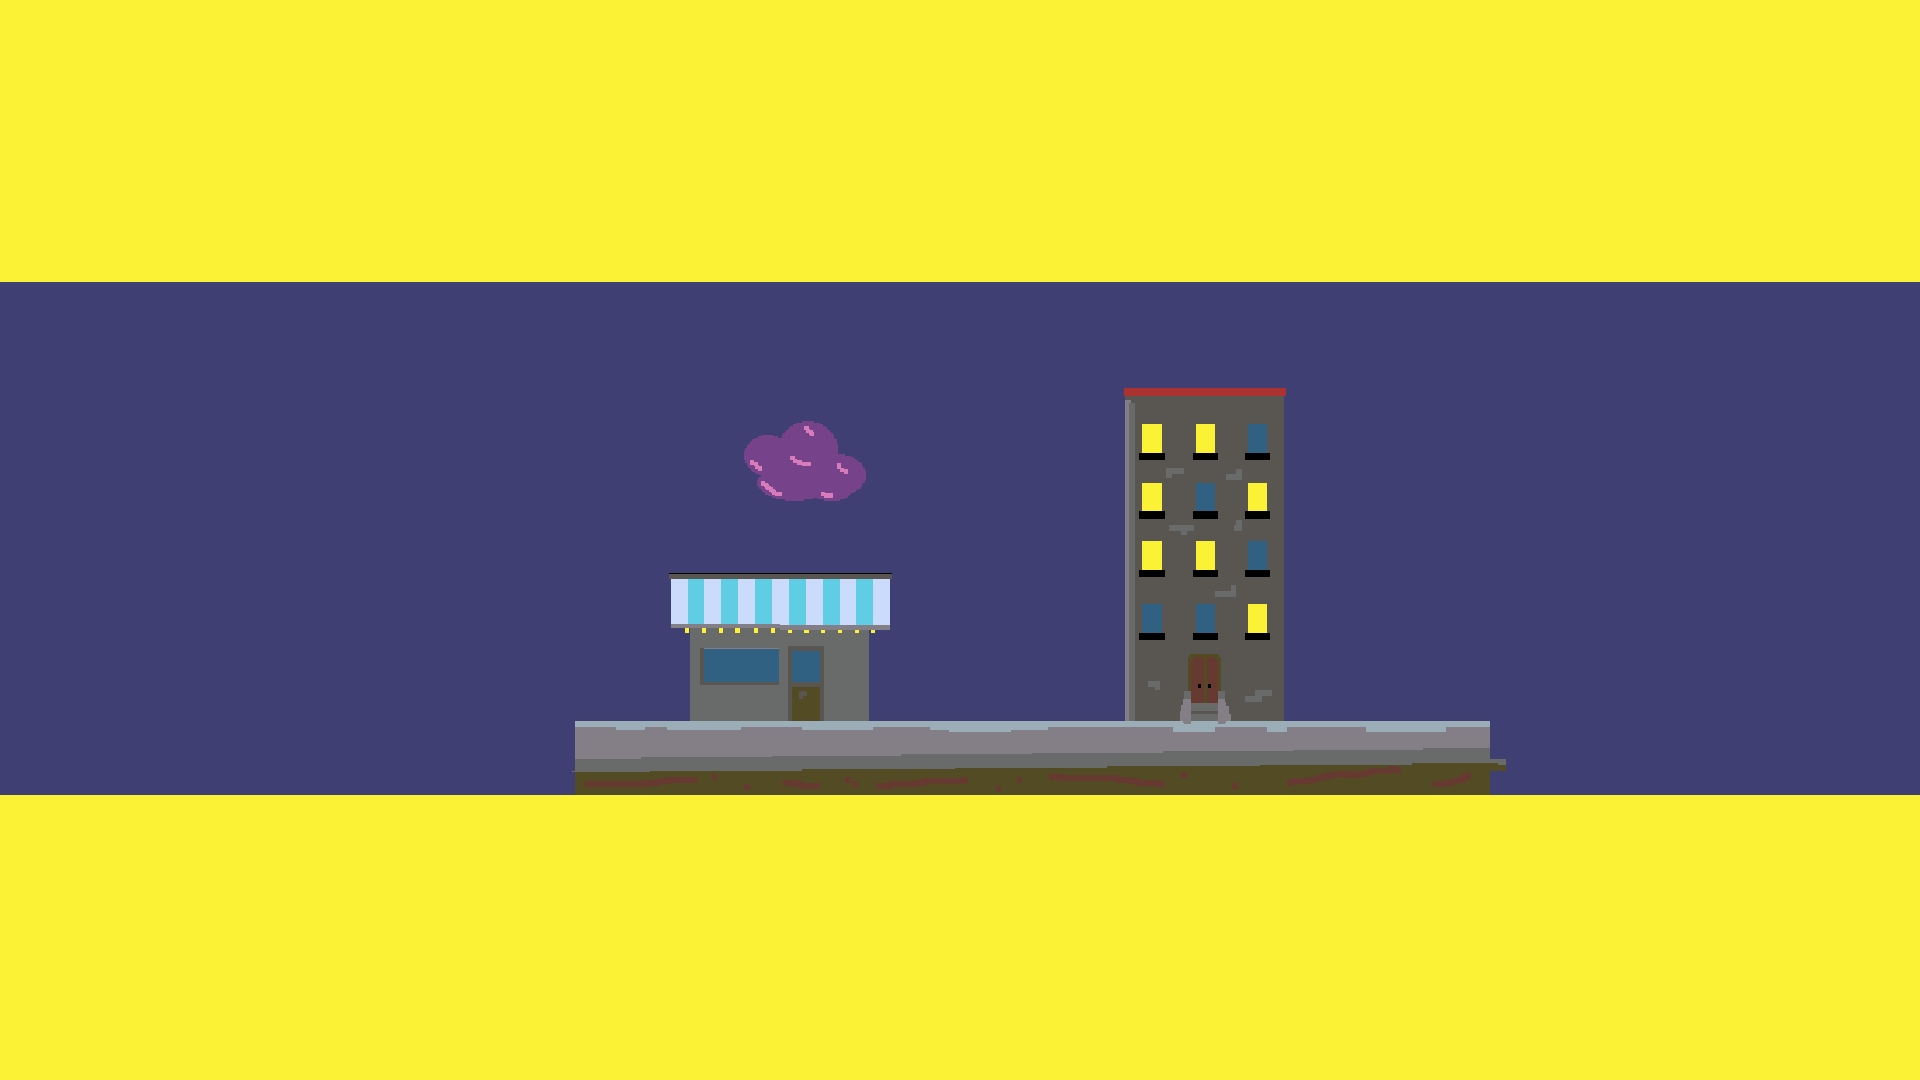
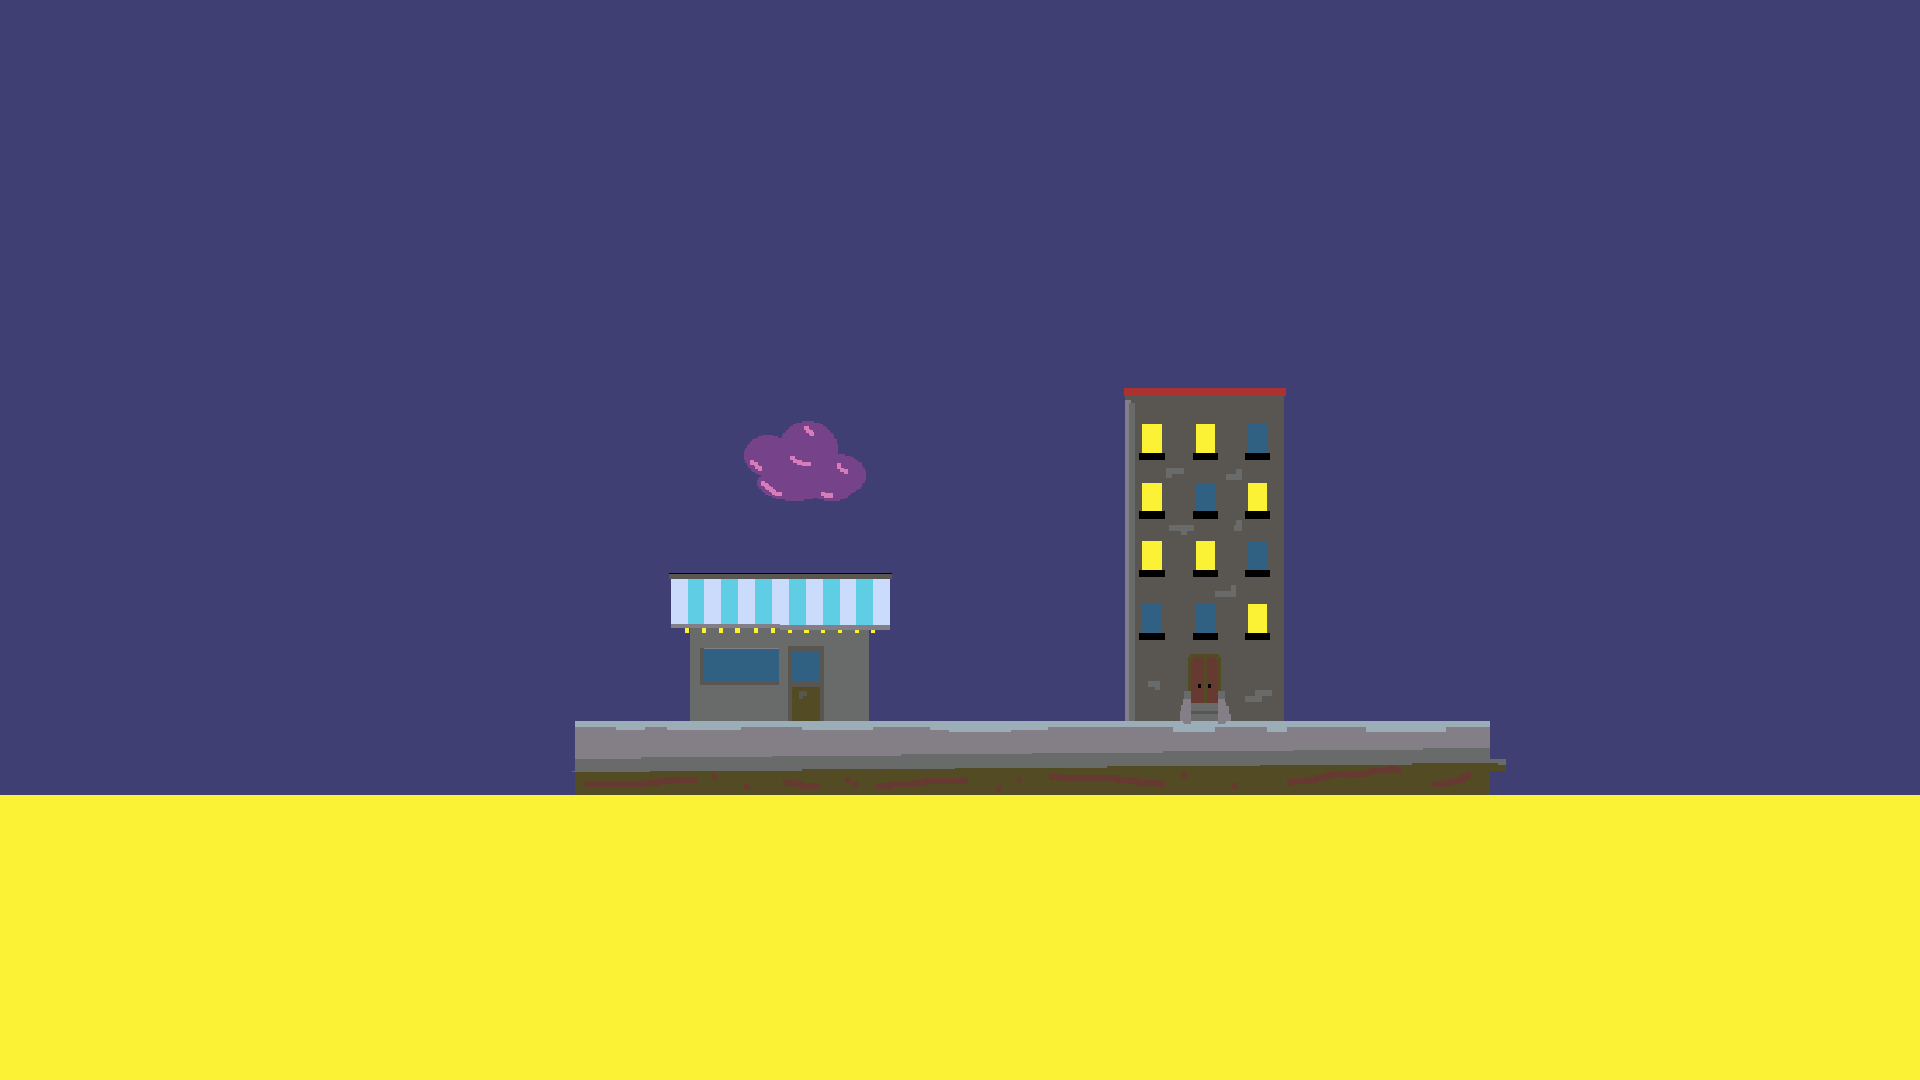
added startup background

Changed region(s): [[0.0, 0.0, 1.0, 0.275]]

diff --git a/PixelVolley/Script/Build/Script.js b/PixelVolley/Script/Build/Script.js
@@ -82,7 +82,7 @@ var Script;
         redBlob_rigid = redBlob.getComponent(ƒ.ComponentRigidbody);
         redBlob_rigid.effectRotation = new ƒ.Vector3(0, 0, 0);
         redBlob.addChild(createNewSpriteNode());
-        animationRed = await buildAnimation("Images/red_blobb.png", "redBlobb", 2, 0, 28, 32, 4, 31);
+        animationRed = await buildAnimation("Images/red_blobb.png", "redBlobb", 2, 0, 28, 31, 4, 31);
         const spriteRed = redBlob.getChildrenByName("Sprite")[0];
         spriteRed.setAnimation(animationRed);
         //char //blue

diff --git a/PixelVolley/Script/Source/Main.ts b/PixelVolley/Script/Source/Main.ts
@@ -55,7 +55,7 @@ namespace Script {
     redBlob_rigid = redBlob.getComponent(ƒ.ComponentRigidbody);
     redBlob_rigid.effectRotation = new ƒ.Vector3(0, 0, 0);
     redBlob.addChild(createNewSpriteNode());
-    animationRed = await buildAnimation("Images/red_blobb.png", "redBlobb", 2, 0, 28, 32, 4, 31);
+    animationRed = await buildAnimation("Images/red_blobb.png", "redBlobb", 2, 0, 28, 31, 4, 31);
     const spriteRed = redBlob.getChildrenByName("Sprite")[0] as ƒAid.NodeSprite;
       spriteRed.setAnimation(animationRed);
 

diff --git a/PixelVolley/styles.css b/PixelVolley/styles.css
@@ -1,11 +1,14 @@
 html,
+
+
 body {
   padding: 0px;
   margin: 0px;
   width: 100%;
   height: 100%;
   overflow: hidden;
-  background-color: aqua;
+  background-image: url(/Images/startup.webp);
+  background-size: cover;
 }
 
 dialog {
@@ -19,8 +22,7 @@ canvas.fullscreen {
 
 #startup {
  align-items: center;
-  height: 40%;
-  width: 40%;
-  background-color: green;
-  border-radius: 5px;
+ color: whitesmoke;
+  background-color: transparent;
+
 }
